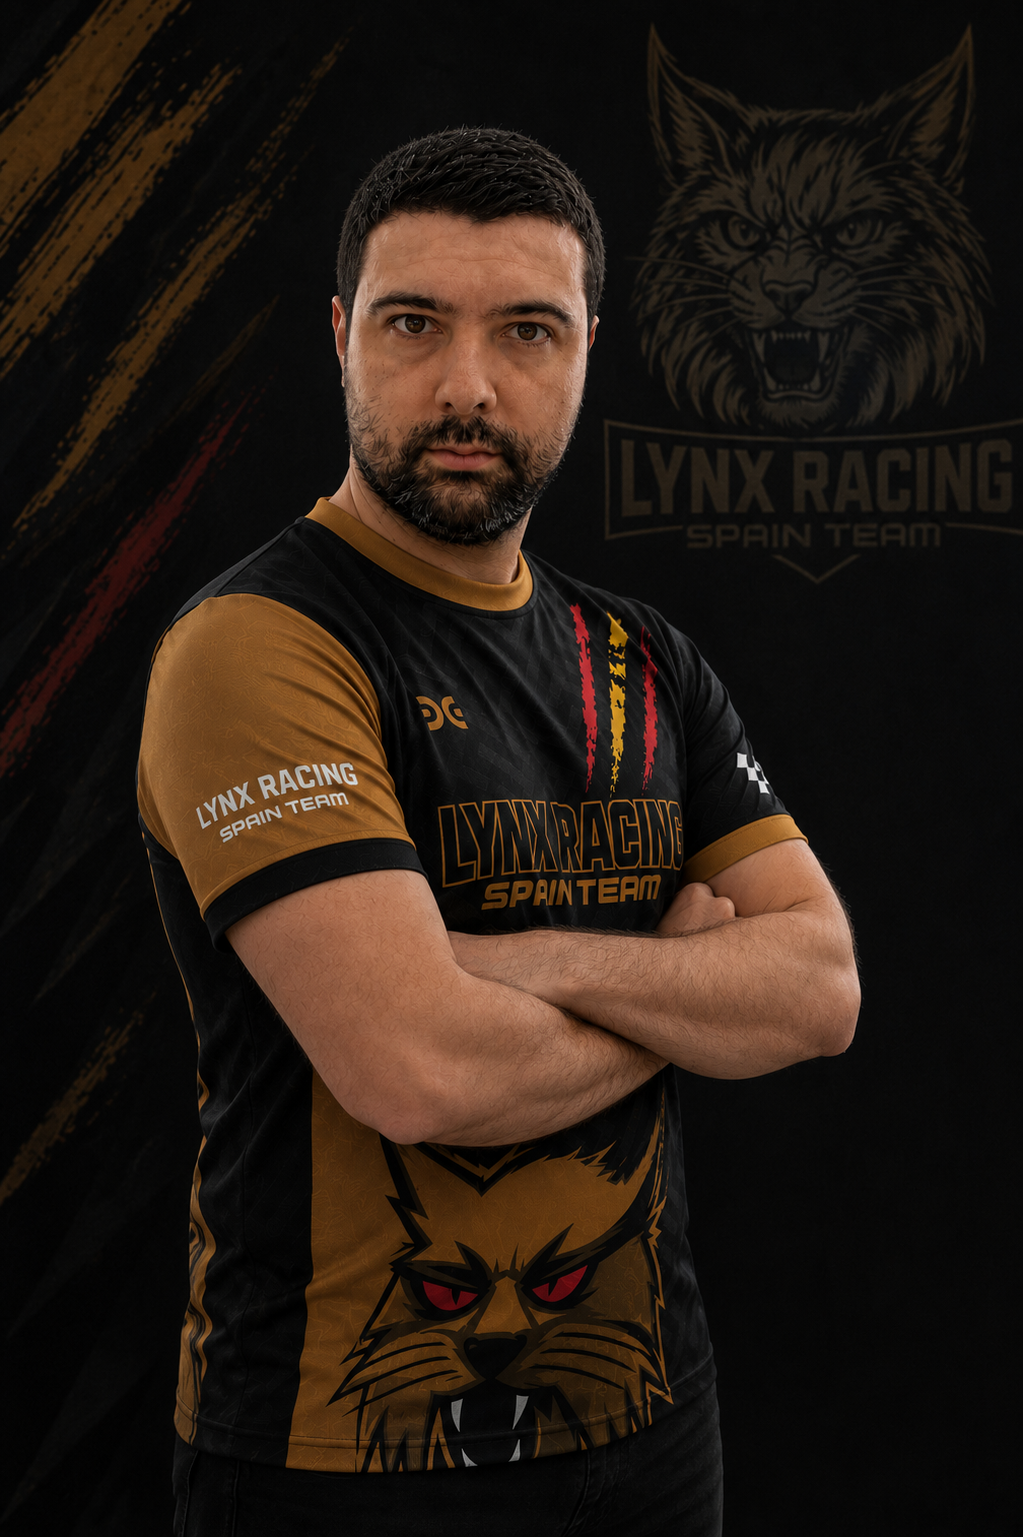
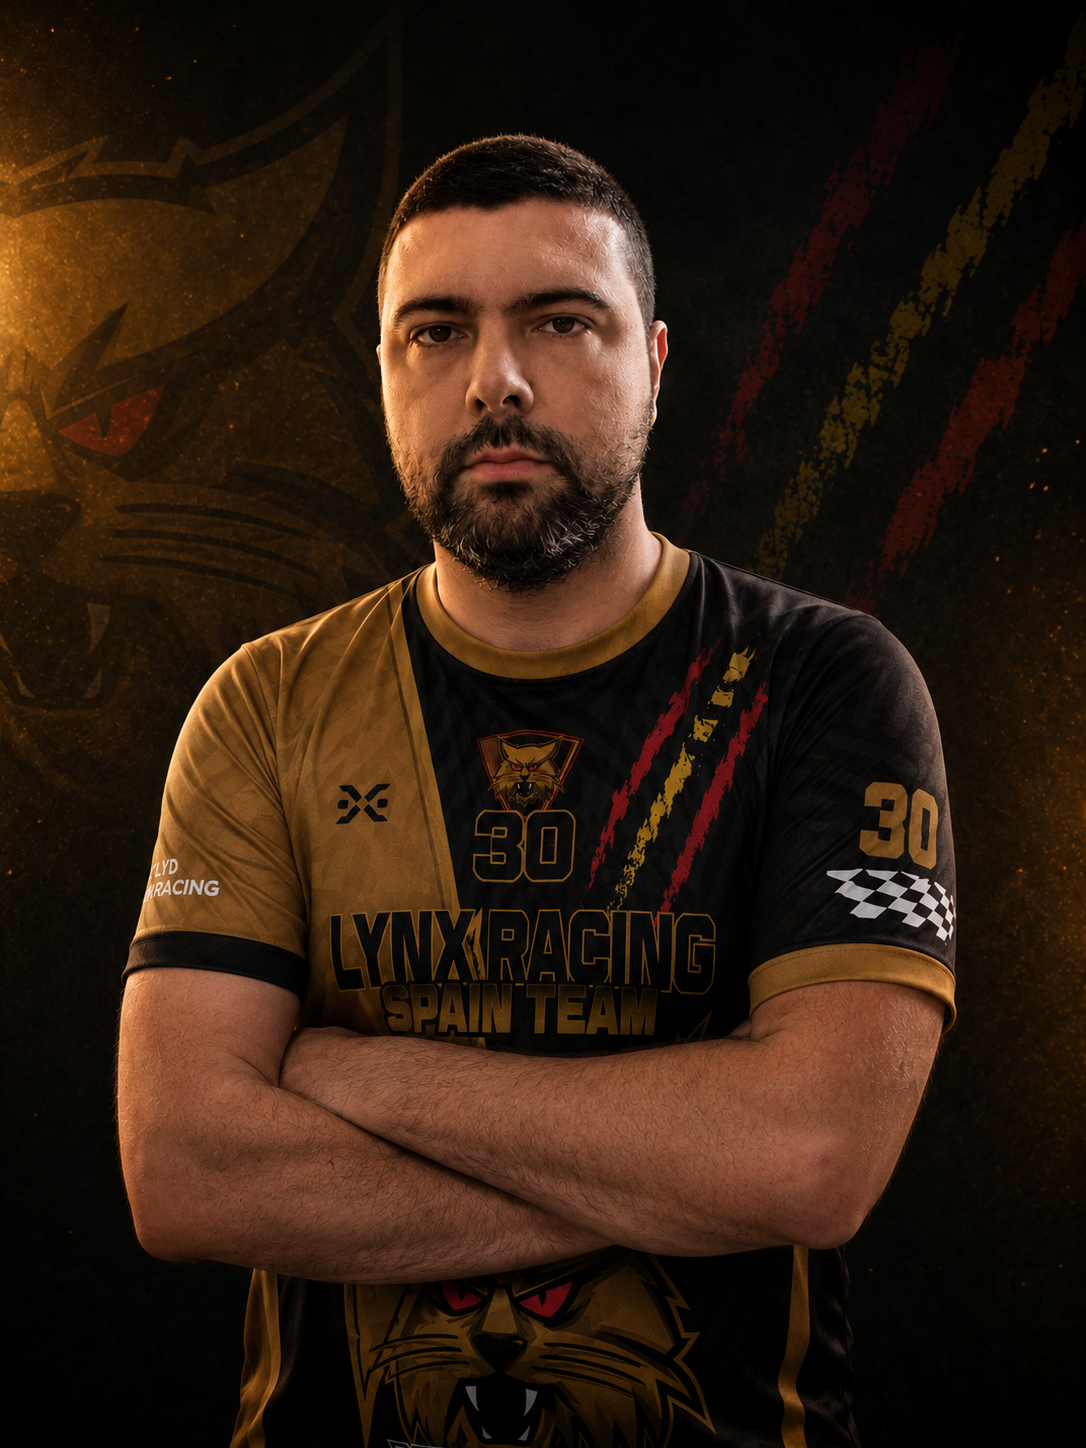
Update Nacho and Xavi roster portraits

diff --git a/src/pages/RosterPage.tsx b/src/pages/RosterPage.tsx
@@ -28,7 +28,7 @@ const FLAG_MAP: Record<string, string> = {
 
 const CUSTOM_PORTRAITS: Record<string, string> = {
   "Juan Serrano": assetUrl("/img/juan.png"),
-  "Nacho Jarrin": assetUrl("/img/nacho.jpg"),
+  "Nacho Jarrin": assetUrl("/img/jarrin.png"),
   "Emiliano Sturniolo": assetUrl("/roster/emiliano-sturniolo.png"),
   "Xavier Sobrerroca": assetUrl("/img/xavi.png"),
   "Albert Gombau": assetUrl("/img/gombi.png"),
